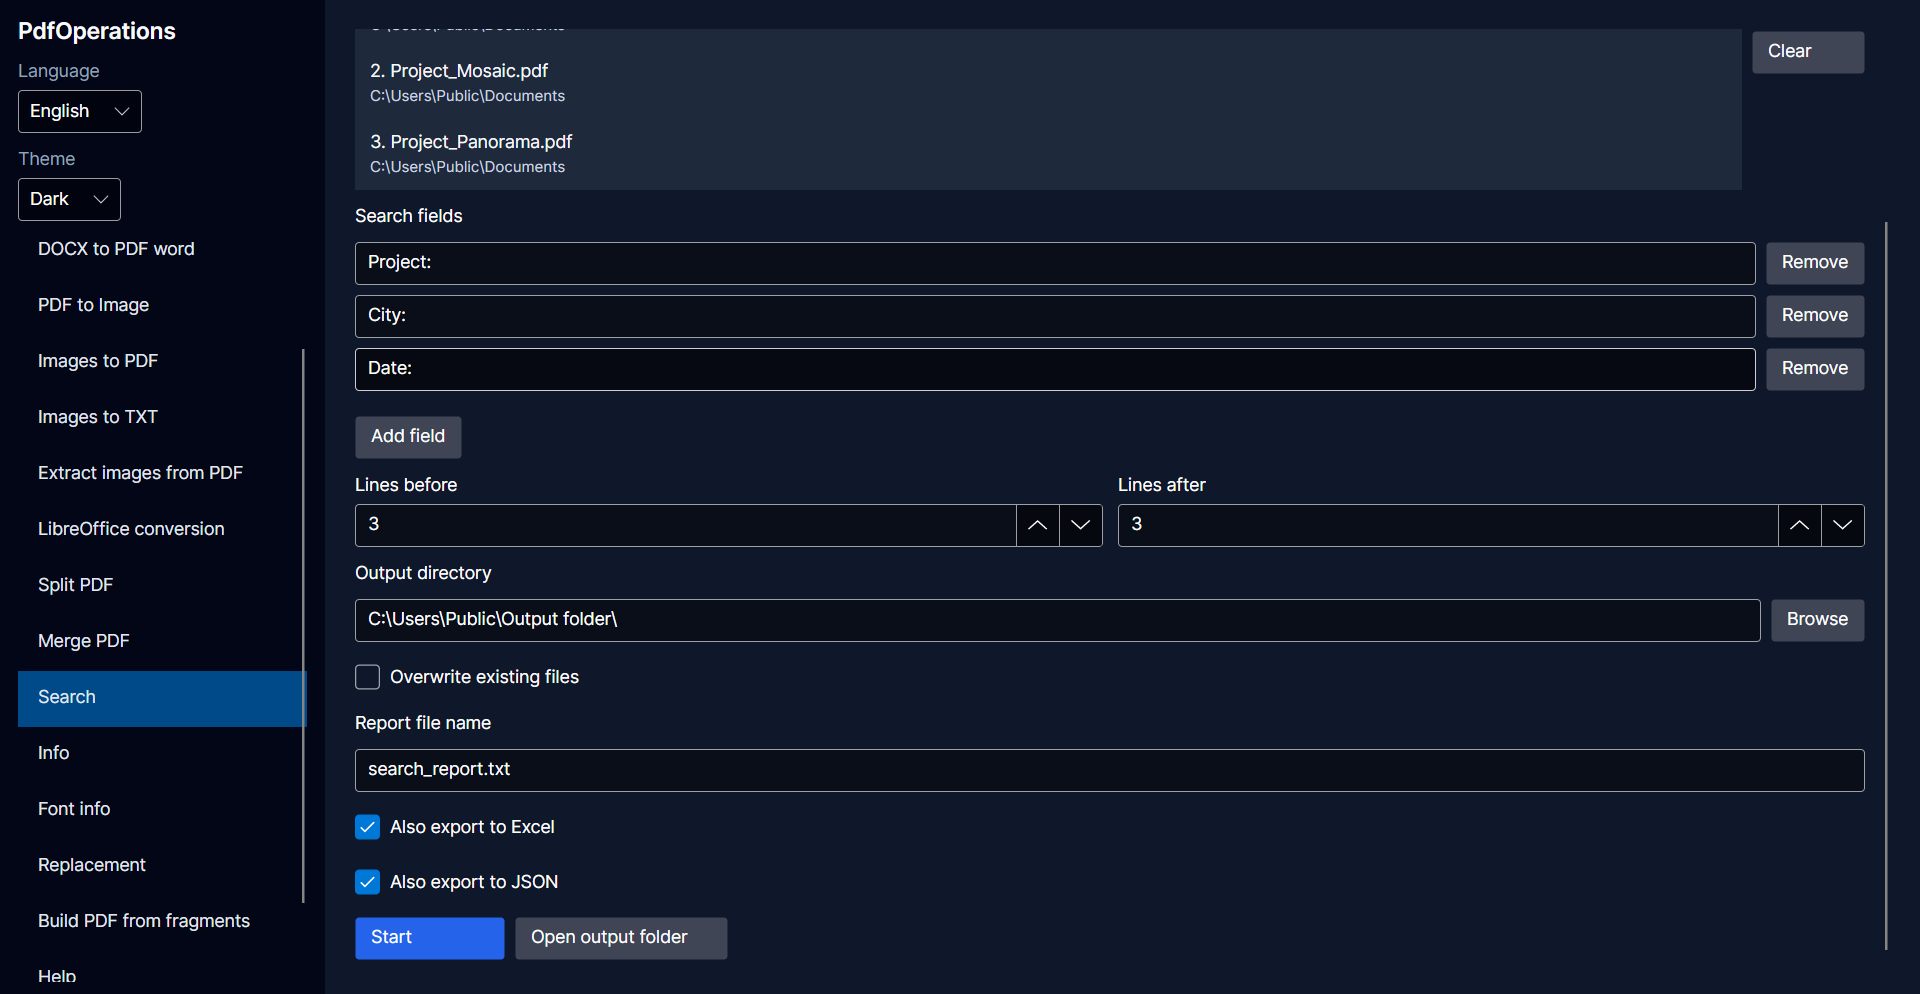
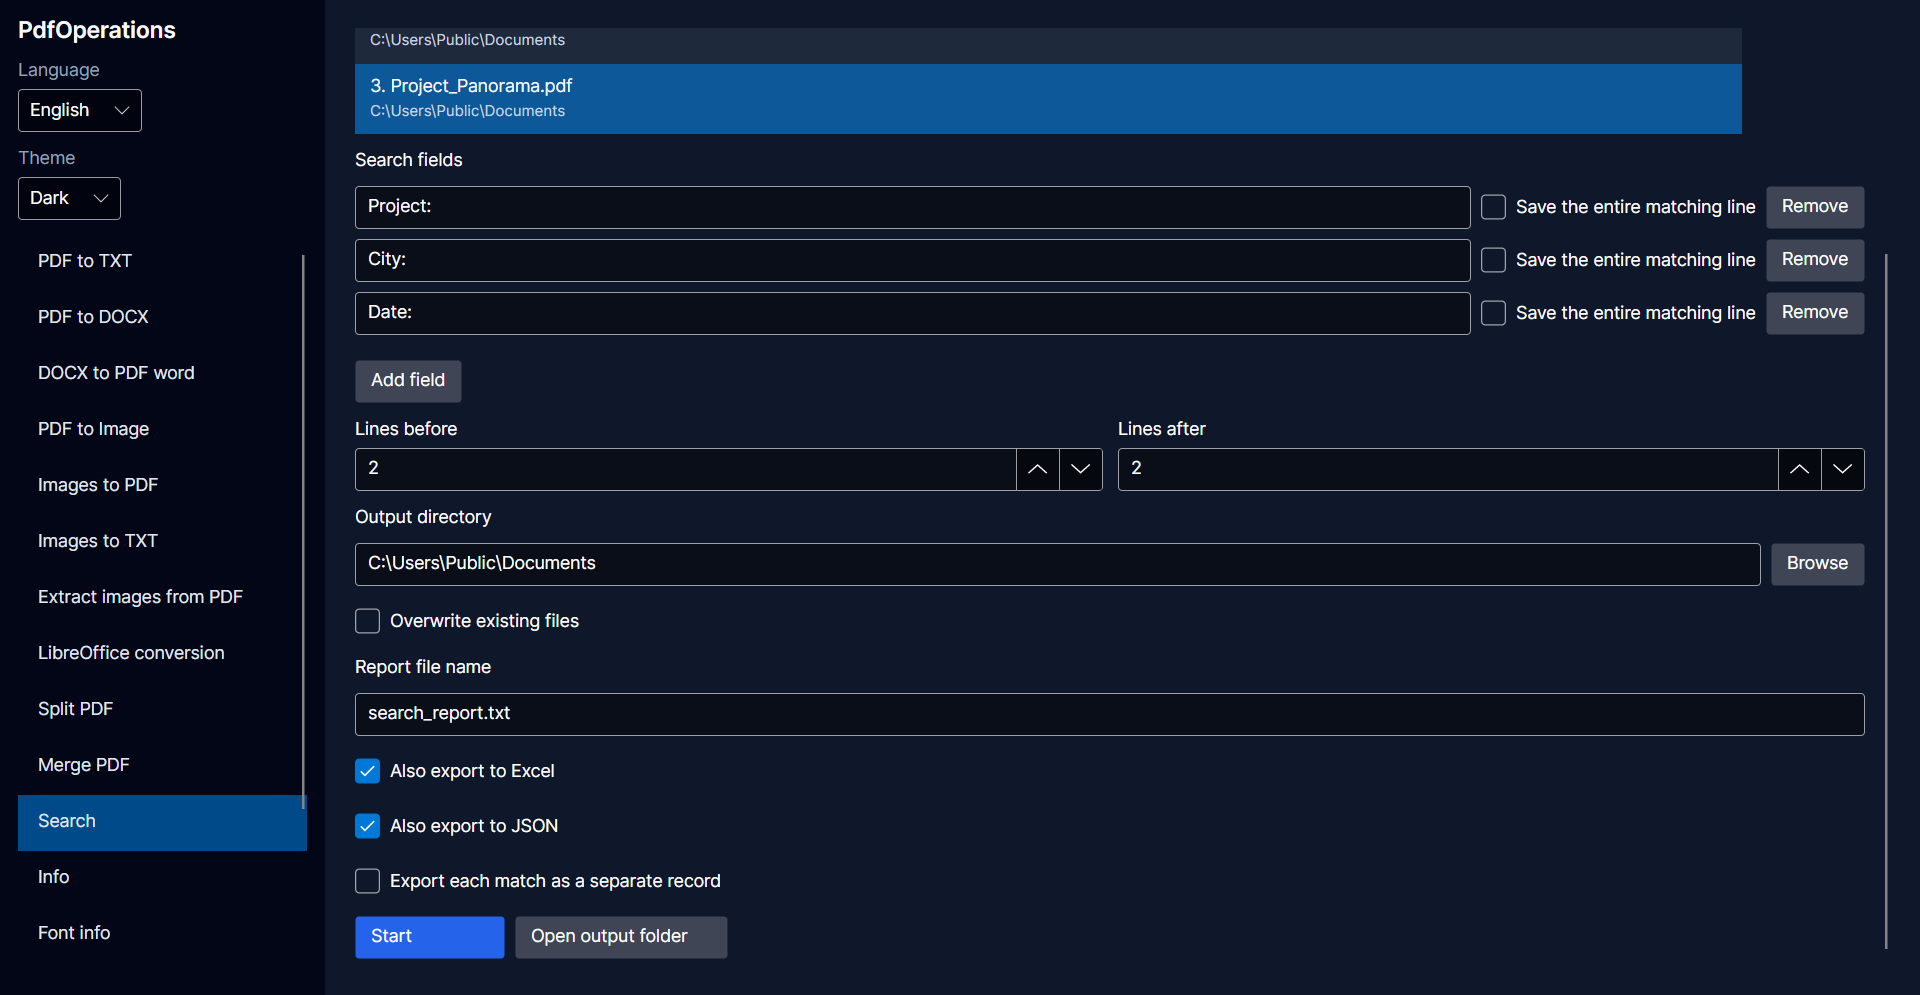
Update search documentation, help and screenshot

diff --git a/PdfOperations.Gui/PdfOperations.Gui/ViewModels/HelpViewModel.cs b/PdfOperations.Gui/PdfOperations.Gui/ViewModels/HelpViewModel.cs
@@ -44,8 +44,10 @@ public class HelpViewModel : ViewModelBase
         - Eksport do Excela i JSON jest opcjonalny. Możesz wybrać jeden lub oba formaty; raport TXT zostanie zapisany również wtedy.
         - Dla każdej frazy możesz zapisać całą znalezioną linię lub tylko tekst po frazie. Jeżeli po frazie i opcjonalnym dwukropku nie ma tekstu, program sprawdzi następną niepustą linię tej samej strony, niezależnie od ustawień raportu TXT.
         - Jeśli następna linia jest inną szukaną etykietą, pole pozostanie puste. Etykieta, której nie dodano do szukanych pól, może jednak zostać odczytana jako wartość pustego pola. Sprawdź wyeksportowane dane.
-        - Domyślnie każdy plik ma jeden wiersz w Excelu lub jeden obiekt w JSON. Podsumowanie zawiera tylko różne, niepuste wartości każdej frazy.
+        - Gdy opcja „Eksportuj każde trafienie jako osobny wpis” jest niezaznaczona, każdy plik ma jeden wiersz w Excelu lub jeden obiekt w JSON. Wszystkie różne, niepuste wartości danej frazy trafiają do osobnych linii jednej komórki Excela lub do tablicy w JSON. To nie tylko ostatni wynik; identyczne wartości są zapisywane raz.
         - Wybierz „Eksportuj każde trafienie jako osobny wpis”, aby otrzymać osobny wiersz lub obiekt dla każdej pasującej linii danej frazy, ze stroną i numerem linii. Powtórzenia zostaną zachowane, podobnie jak zera na początku wartości.
+        - Przykład: dwa różne telefony znalezione w różnych liniach jednego PDF to jedna komórka z dwiema wartościami w podsumowaniu albo dwa wiersze po włączeniu osobnych wpisów. Kilka wystąpień tej samej frazy w jednej linii nadal daje jeden wpis dla tej linii.
+        - Tryb eksportu nie zmienia raportu TXT. Oznaczenia [0], [-1] i [+1] wskazują odpowiednio linię z wynikiem, poprzednią i następną.
         - Język aplikacji w chwili uruchomienia wyszukiwania określa język stałych nagłówków i nazwy arkusza Excel oraz kluczy JSON: NazwaPliku, SciezkaPliku i Pola albo FileName, FilePath i Fields.
         - Wpisane frazy oraz znalezione wartości nie są tłumaczone. Zmiana języka aplikacji nie zmienia już zapisanych plików.
         - Kilka nazwisk i numerów w jednym dokumencie nie zostanie automatycznie połączonych w pary.
@@ -103,8 +105,10 @@ public class HelpViewModel : ViewModelBase
         - Excel and JSON exports are optional. Select either or both formats; the TXT report is still saved.
         - For each phrase, save the entire matching line or just the text after the phrase. If nothing follows the phrase and optional colon, the next nonempty line on the same page is checked, regardless of the TXT context settings.
         - If the next line is another search label, the value remains empty. A label that is not among the search fields may instead be read as the value of an empty field. Check the exported data.
-        - By default, each file has one Excel row or JSON object. This summary includes only distinct, nonempty values for each phrase.
+        - With “Export each match as a separate record” unchecked, each file has one Excel row or JSON object. All distinct, nonempty values for each phrase appear on separate lines in one Excel cell or in a JSON array. This keeps more than just the last result; identical values are stored once.
         - Select “Export each match as a separate record” for one row or object per matching line per phrase, with its page and line number. Repeated values and leading zeros are preserved.
+        - Example: two different phone numbers found on different lines of one PDF produce one cell with two values in summary mode, or two rows with separate records enabled. Multiple occurrences of the same phrase on one line still produce one record for that line.
+        - The export mode does not change the TXT report. [0], [-1] and [+1] mark the matching, preceding and following lines respectively.
         - The app language when search starts determines the fixed Excel headers and worksheet name, and the JSON keys: FileName, FilePath and Fields, or NazwaPliku, SciezkaPliku and Pola.
         - Your phrases and extracted values are not translated. Changing the app language does not change previously saved files.
         - Multiple names and numbers in one document are not automatically paired.

diff --git a/README.pl.md b/README.pl.md
@@ -74,7 +74,7 @@ Wyszukiwanie obsługuje pliki PDF, TXT i obrazy. Korzystaj z filtra typu pliku w
 
 Wpisz frazę w sekcji **Szukane pola**, a kolejne dodawaj przyciskiem **Dodaj pole**. Puste pola są pomijane. Wymagana jest co najmniej jedna fraza, a nazwy pól nie mogą się powtarzać, także przy różnej wielkości liter.
 
-Raport TXT zawiera wystąpienia wszystkich fraz, również wewnątrz dłuższego tekstu. Wyszukiwanie nie rozróżnia wielkich i małych liter. Ustawienia liczby linii przed i po wyniku określają, ile otaczającego tekstu zostanie uwzględnione w raporcie.
+Raport TXT zawiera wystąpienia wszystkich fraz, również wewnątrz dłuższego tekstu. Wyszukiwanie nie rozróżnia wielkich i małych liter. Ustawienia liczby linii przed i po wyniku określają, ile otaczającego tekstu zostanie uwzględnione w raporcie. `[0]` oznacza linię z wynikiem, `[-1]` poprzednią, a `[+1]` następną.
 
 ### Eksport do Excela i JSON
 
@@ -88,14 +88,28 @@ Firma:
 Przykładowe Studio
 ```
 
-Wyszukiwanie pól `Numer sprawy` i `Firma` pozwala odczytać wartości `00123` i `Przykładowe Studio`. Odczyt wymaga zgodności całej etykiety, z pominięciem wielkości liter i białych znaków na jej początku i końcu. Znalezienie fragmentu dłuższej etykiety w raporcie TXT nie musi więc oznaczać odczytania wartości do eksportu.
+Wyszukiwanie pól `Numer sprawy` i `Firma` pozwala odczytać wartości `00123` i `Przykładowe Studio`. Dla każdej frazy możesz wybrać zapis całej znalezionej linii albo tylko wartości po frazie. Wyszukiwanie nie rozróżnia wielkich i małych liter i znajduje również frazę wewnątrz dłuższego tekstu.
+
+**Opcja „Eksportuj każde trafienie jako osobny wpis” niezaznaczona (podsumowanie):**
 
 - Każdy plik wejściowy otrzymuje jeden wiersz w Excelu lub jeden obiekt w JSON. Pełne ścieżki rozróżniają pliki o tej samej nazwie z różnych folderów.
 - Każde szukane pole otrzymuje kolumnę w Excelu lub wpis w obiekcie pól w JSON.
 - Identyczne wartości w obrębie jednego pliku i pola są zapisywane tylko raz. Różne wartości trafiają do osobnych linii w jednej komórce Excela lub do elementów tablicy w JSON.
 - Brak wartości oznacza pustą komórkę w Excelu lub pustą tablicę w JSON.
+
+**Opcja „Eksportuj każde trafienie jako osobny wpis” zaznaczona:**
+
+- Każda pasująca linia dla danej frazy otrzymuje osobny wiersz w Excelu lub obiekt w JSON: nazwę pliku, pełną ścieżkę, stronę, linię, frazę i wartość.
+- Powtarzające się wartości zostają zachowane. Trafienie bez odczytanej wartości jest zapisywane z pustą wartością; pliki bez trafień nie tworzą wpisów.
+- Kilka wystąpień tej samej frazy w jednej linii daje jeden wpis dla tej linii, a nie osobny wpis dla każdego wystąpienia.
+
+Przykładowo dwa różne numery telefonu znalezione w jednym PDF zajmą w podsumowaniu dwie linie w jednej komórce Excela lub dwa elementy tablicy w JSON. Po włączeniu osobnych wpisów zajmą dwa wiersze lub obiekty, jeśli znaleziono je w różnych liniach. Podsumowanie zachowuje wszystkie różne wartości, a nie tylko ostatni wynik.
+
+**W obu trybach:**
+
 - Wartości są zapisywane jako tekst, dzięki czemu zachowują zera na początku.
 - Język interfejsu w chwili rozpoczęcia operacji określa język stałych nagłówków Excela, nazwę arkusza i klucze JSON. Szukane frazy i odczytane wartości nie są tłumaczone.
+- Tryb eksportu nie zmienia raportu TXT. Żaden z trybów nie łączy automatycznie nazwisk, telefonów ani innych pól należących do tej samej osoby.
 
 | Element eksportu | Angielski | Polski |
 | --- | --- | --- |
@@ -105,16 +119,21 @@ Wyszukiwanie pól `Numer sprawy` i `Firma` pozwala odczytać wartości `00123` i
 | Nazwa pliku w JSON | `FileName` | `NazwaPliku` |
 | Ścieżka pliku w JSON | `FilePath` | `SciezkaPliku` |
 | Pola w JSON | `Fields` | `Pola` |
+| Strona w osobnych wpisach | `Page` | `Strona` |
+| Linia w osobnych wpisach | `Line` | `Linia` |
+| Fraza w osobnych wpisach | `Phrase` | `Fraza` |
+| Wartość w Excelu w osobnych wpisach | `Value` | `Wartość` |
+| Wartość w JSON w osobnych wpisach | `DesiredValue` | `Wartosc` |
 
 Jeśli inny program odczytuje wyeksportowany JSON, uwzględnij klucze zależne od wybranego języka.
 
 ### Ograniczenia odczytu
 
-Wartość jest odczytywana po dwukropku w tej samej linii lub z następnej niepustej linii mieszczącej się w raporcie. Jeśli wartość znajduje się poza tym zakresem, zwiększ liczbę linii po wyniku.
+Przy zapisie samej wartości program odczytuje tekst po frazie i opcjonalnym dwukropku. Jeżeli jest pusty, sprawdza następną niepustą linię tej samej strony. Nie zależy to od ustawień liczby linii przed i po wyniku w raporcie TXT. Opcja zapisu całej linii zapisuje zamiast tego linię z dopasowaniem.
 
 Jeśli następna linia jest inną szukaną etykietą, wartość pozostaje pusta. Nieznana etykieta może jednak zostać potraktowana jako wartość. Na przykład przy wyszukiwaniu wyłącznie pola `Numer sprawy`, pusta etykieta `Numer sprawy:` z następującą po niej linią `Adres: ul. Główna` może dać wynik `Adres: ul. Główna`. Sprawdź wyeksportowane dane przed ich wykorzystaniem.
 
-Wyniki są grupowane według pliku, a nie według osoby lub rekordu w dokumencie. Kilka nazwisk i numerów w jednym pliku nie zostanie automatycznie połączonych w pary.
+Przy zapisie samej wartości program próbuje zakończyć odczyt przed kolejną etykietą, również niewybraną, jeśli występuje po przecinku i kończy się dwukropkiem. To rozpoznawanie na podstawie wzorca, a nie znajomość struktury dokumentu: niejednoznaczny tekst może wymagać ręcznej korekty. Zapis całej linii nie stosuje tego przycinania.
 
 Wyszukiwanie w PDF odczytuje warstwę tekstową; nie wykonuje automatycznie OCR zeskanowanych stron PDF. W przypadku skanów bez zaznaczalnego tekstu najpierw zapisz strony jako obrazy, a następnie użyj OCR lub wyszukiwania w obrazach. Dokładność OCR zależy od jakości obrazów i dostępnych danych językowych.
 

diff --git a/README.md b/README.md
@@ -74,7 +74,7 @@ Search accepts PDF, TXT and image files. Use the file-type filter in the selecti
 
 Enter one phrase under **Search fields**, then use **Add field** for additional phrases. Empty fields are ignored. At least one phrase is required, and field names must be unique regardless of letter case.
 
-The TXT report contains case-insensitive matches for all phrases, including matches within longer text. The lines-before and lines-after settings control the surrounding context included in the report.
+The TXT report contains case-insensitive matches for all phrases, including matches within longer text. The lines-before and lines-after settings control the surrounding context included in the report. `[0]` marks the matching line, `[-1]` the preceding line, and `[+1]` the following line.
 
 ### Excel and JSON exports
 
@@ -88,14 +88,28 @@ Company:
 Example Studio
 ```
 
-Searching for `Reference` and `Company` can extract `00123` and `Example Studio`. Extraction matches the entire label, ignoring case and surrounding whitespace; matching only part of a longer label in the TXT report does not necessarily produce an extracted value.
+Searching for `Reference` and `Company` can extract `00123` and `Example Studio`. For each phrase, choose whether to save the entire matching line or just the value after the phrase. Search is case-insensitive and can also match a phrase within longer text.
+
+**With "Export each match as a separate record" unchecked (summary):**
 
 - Each input file produces one Excel row or JSON object. Full paths distinguish files with the same name in different folders.
 - Each search field produces an Excel column or an entry under the JSON fields object.
 - Identical values within one file and field are stored once. Different values are separate lines in one Excel cell or items in a JSON array.
 - Missing values produce an empty Excel cell or an empty JSON array.
+
+**With "Export each match as a separate record" checked:**
+
+- Each matching line for each phrase produces a separate Excel row or JSON object containing the file name, full path, page, line, phrase and value.
+- Repeated values are preserved. A match with no extracted value is included with an empty value; files with no matches produce no records.
+- Several occurrences of the same phrase on one line produce one record for that line, not one record per occurrence.
+
+For example, two different phone numbers found in one PDF occupy two lines in one Excel cell (or two items in a JSON array) in summary mode. With separate records enabled, they occupy two rows or objects, provided they were found on different lines. The summary keeps all distinct values, not just the last result.
+
+**In both modes:**
+
 - Values are stored as text, preserving leading zeros.
 - The interface language at the start of the operation determines the fixed Excel headers, worksheet name and JSON keys. Search phrases and extracted values are not translated.
+- The export mode does not change the TXT report. Neither mode automatically pairs names, phone numbers or other fields belonging to the same person.
 
 | Export label | English | Polish |
 | --- | --- | --- |
@@ -105,16 +119,21 @@ Searching for `Reference` and `Company` can extract `00123` and `Example Studio`
 | JSON file name | `FileName` | `NazwaPliku` |
 | JSON file path | `FilePath` | `SciezkaPliku` |
 | JSON fields | `Fields` | `Pola` |
+| Page in separate records | `Page` | `Strona` |
+| Line in separate records | `Line` | `Linia` |
+| Phrase in separate records | `Phrase` | `Fraza` |
+| Excel value in separate records | `Value` | `Wartość` |
+| JSON value in separate records | `DesiredValue` | `Wartosc` |
 
 If another program consumes the exported JSON, account for these language-dependent keys.
 
 ### Extraction limitations
 
-Values are read after a colon on the same line or from the next nonempty line within the report context. Increase the lines-after setting if the value lies outside that context.
+In value-only mode, text is read after the phrase and an optional colon. If that text is empty, the next nonempty line on the same page is checked. This does not depend on the lines-before or lines-after settings of the TXT report. Whole-line mode saves the matching line instead.
 
 If the next line is another search label, the value remains empty. An unknown label can instead be mistaken for a value. For example, when searching only for `Reference`, an empty `Reference:` followed by `Address: Main Street` may yield `Address: Main Street`. Review exported data before using it.
 
-Results are grouped by file, not by person or record within a document. Several names and numbers in one file are not automatically paired.
+Value-only mode tries to stop before the next label, including an unselected label after a comma when it is followed by a colon. This is a heuristic, not a document schema: ambiguous text may still need manual correction. Whole-line mode preserves the matching line without this trimming.
 
 PDF search reads the PDF text layer; it does not automatically OCR scanned PDF pages. For scans without selectable text, render the pages as images first and use OCR or image search. OCR accuracy depends on image quality and available language data.
 
